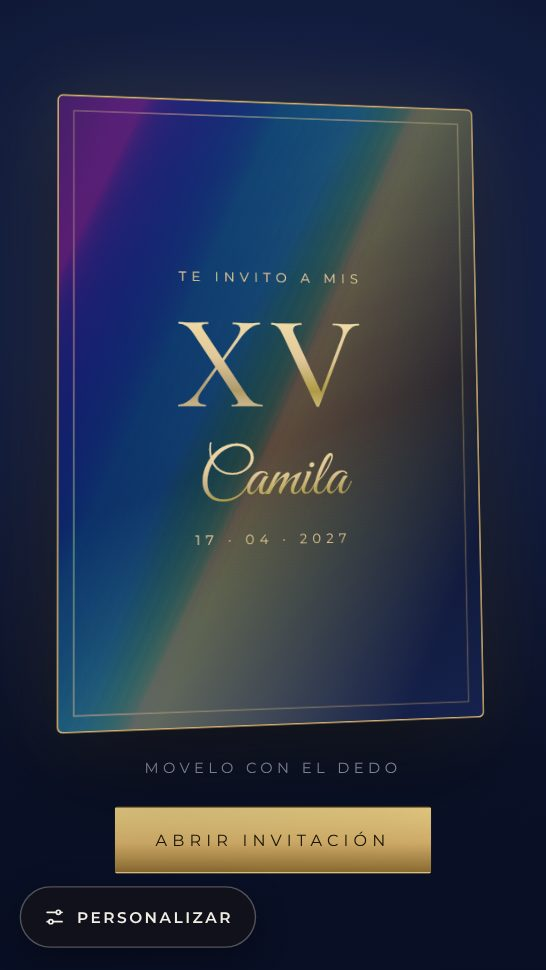
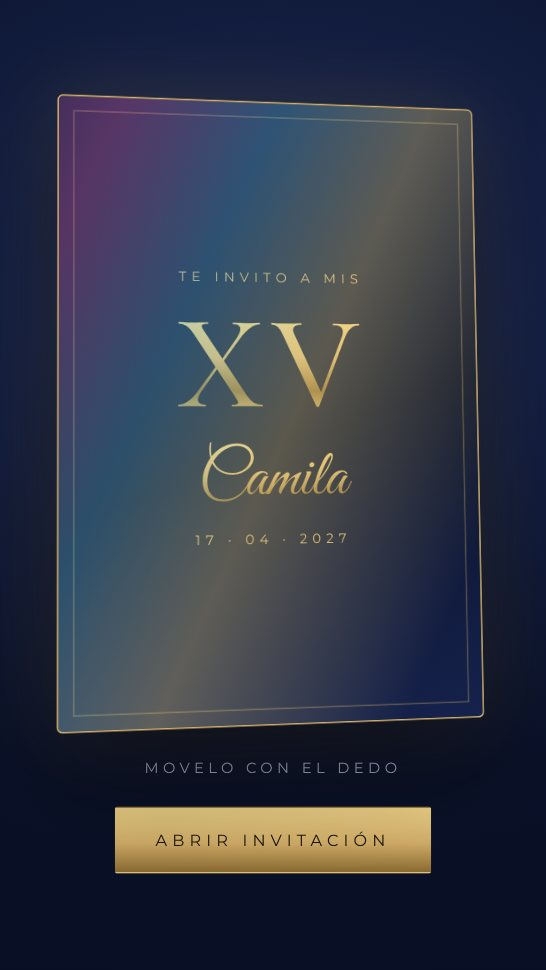
Catálogo: sin etiquetas de formato en las tarjetas y portada XV sin botón Personalizar
Claude-Session: https://claude.ai/code/session_011qGCcJGJ6QNkh9xyKW4Lmp

diff --git a/index.html b/index.html
@@ -98,7 +98,7 @@ section{padding:40px 0;scroll-margin-top:64px}
 .gtitle{font:600 26px/1.2 var(--serif);color:#f3d19a;text-align:center;margin:8px 0 4px}
 .gsub{text-align:center;color:var(--muted);font-size:13px;margin:0 0 16px}
 .group+.group{margin-top:34px}
-.ftags{display:flex;flex-wrap:wrap;gap:5px;justify-content:center;margin:10px 4px 8px}.ftags span{font-size:10.5px;letter-spacing:.08em;text-transform:uppercase;border:1px solid rgba(226,182,118,.3);border-radius:10px;padding:4px 8px;color:var(--muted)}
+.ftags small{flex-basis:100%;text-align:center;font-size:10.5px;letter-spacing:.14em;text-transform:uppercase;color:var(--muted);margin-bottom:2px}.ftags{display:flex;flex-wrap:wrap;gap:5px;justify-content:center;margin:10px 4px 8px}.ftags span{font-size:10.5px;letter-spacing:.08em;text-transform:uppercase;border:1px solid rgba(226,182,118,.3);border-radius:10px;padding:4px 8px;color:var(--muted)}
 .gtag{position:absolute;top:18px;right:18px;font:600 10px var(--sans);letter-spacing:.12em;text-transform:uppercase;padding:6px 9px;border-radius:12px;background:rgba(255,255,255,.88);color:#3a2a14}
 details.group{border:1px solid var(--line);border-radius:20px;background:rgba(255,255,255,.02);margin-bottom:12px}
 details.group>summary{cursor:pointer;list-style:none;display:flex;justify-content:space-between;align-items:center;gap:10px;padding:16px 18px;font:600 24px var(--serif);color:#f3d19a}
@@ -205,7 +205,7 @@ footer b{display:block;font:600 22px var(--serif);letter-spacing:.2em;background
     <details class="q"><summary>¿Qué formato me conviene?</summary><p>La imagen es ideal para mandar por chat y subir a estados. El PDF suma botones para llegar al lugar, agendar la fecha y confirmar por WhatsApp. El video llama la atención en estados y reels. La invitación web es la experiencia completa, con apertura animada, cuenta regresiva, galería, regalos y confirmación de asistencia. Podés pedir uno o varios.</p></details>
     <details class="q"><summary>¿Cómo pago?</summary><p>Por transferencia o Mercado Pago. Primero te mandamos la muestra para que la apruebes, y cuando está todo bien, pagás y te la entregamos sin marca de agua.</p></details>
     <details class="q"><summary>¿Cuánto tarda?</summary><p>Apenas nos pasás los datos te enviamos la muestra. Con tu aprobación y el pago, la recibís enseguida.</p></details>
-    <details class="q"><summary>¿Puedo cambiar los colores?</summary><p>Sí. Cada diseño tiene varias paletas para elegir. En las demos con el botón "Personalizar" o con los círculos de color podés probarlas.</p></details>
+    <details class="q"><summary>¿Puedo cambiar los colores?</summary><p>Sí. Muchos diseños tienen varias paletas. En algunas demos hay un botón "Personalizar" para probar colores y letras antes de pedirla; contanos cuál te gustó y la armamos así.</p></details>
     <details class="q"><summary>¿Cómo la comparto?</summary><p>Reenviás la imagen, el PDF o el link por WhatsApp, Instagram o donde quieras.</p></details>
   </section>
 
@@ -299,10 +299,10 @@ function want(d,sel){var m=/img\/t-([a-z0-9-]+)\.jpg/.exec(d.img)||(d.demo&&/dem
  return wa('¡Hola! Me gusta el diseño "'+d.n+'" de '+d.ev+(code?' (código '+code+')':'')+'.\nLo quiero en: '+(names.length?names.join(', ')+'\nTotal: '+money(t):'(imagen / video / PDF / web)')+'\n¿Me pasás el formulario?')}
 var list=[];
 function card(d){var i=list.push(d)-1;
-  return '<article class="card"><span class="kind">'+(d.demo?'Web animada':'Diseño')+'</span>'+
+  return '<article class="card">'+
    '<img class="shot" loading="lazy" src="'+d.img+'" alt="Portada del diseño '+esc(d.n)+'">'+
-   '<h3>'+esc(d.n)+'</h3><p>'+esc(d.demo?d.d:'Imagen, PDF, video y web')+'</p>'+
-   '<div class="ftags"><span>JPG</span><span>PDF</span><span>Video</span><span>Web</span></div>'+
+   '<h3>'+esc(d.n)+'</h3><p>'+esc(d.demo?d.d+'. Tocá Ver demo para probarla.':'Tocá Ver grande para mirarla.')+'</p>'+
+   '<div class="ftags"><small>Disponible en</small><span>JPG</span><span>PDF</span><span>Video</span><span>Web</span></div>'+
    '<div class="price"><small>desde </small><b>'+money(pr(d.ev,'imagen')[1])+'</b></div>'+
    '<div class="acts">'+(d.demo?'<a class="cta ghost" href="'+d.demo+'" target="_blank" rel="noopener">Ver demo</a>':'<button class="cta ghost" type="button" data-view="'+i+'">Ver grande</button>')+
    '<button class="cta" type="button" data-want="'+i+'">Quiero este</button></div></article>'}
